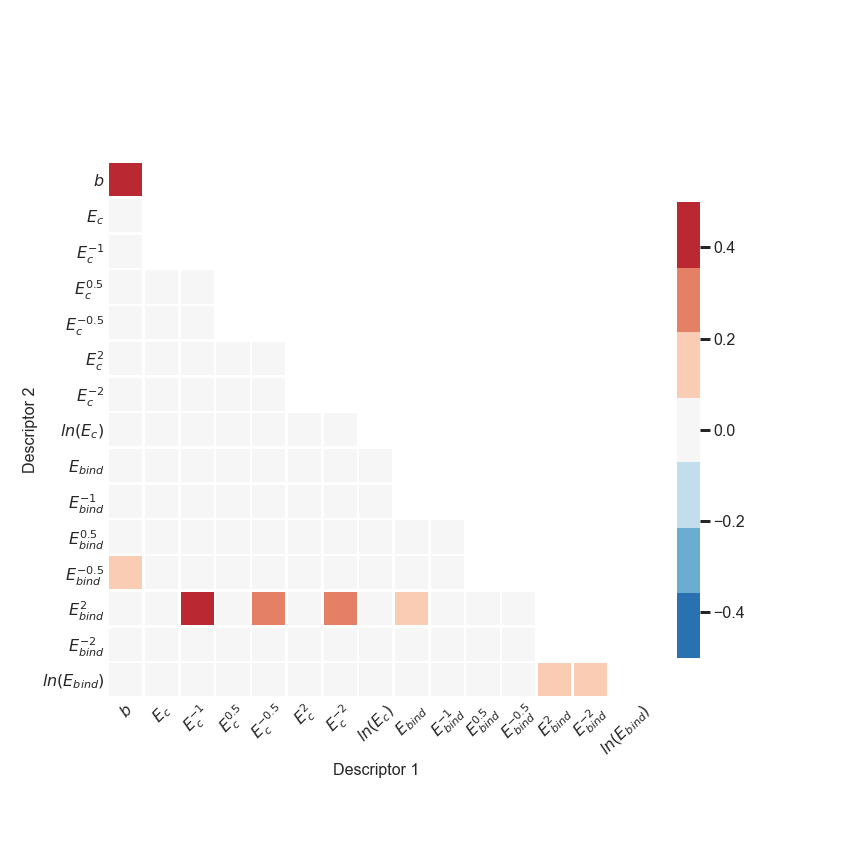
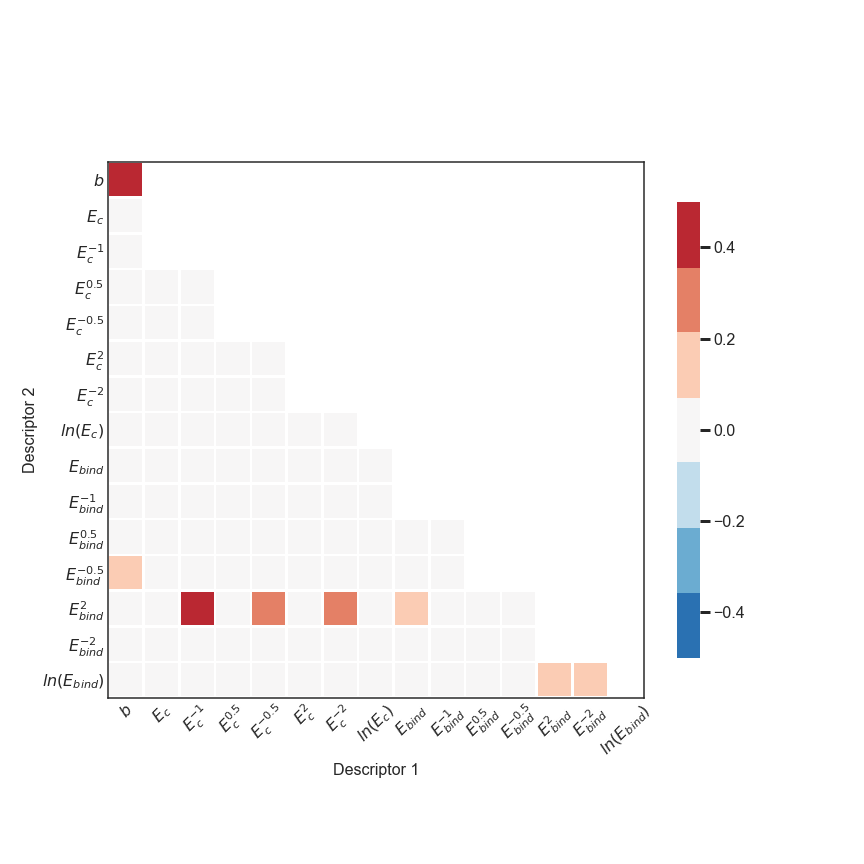
updated plots

Changed region(s): [[0.7188, 0.7812, 0.75, 0.8125], [0.7188, 0.1875, 0.75, 0.2188], [0.125, 0.7812, 0.1562, 0.8125]]

diff --git a/v2/Ea.py b/v2/Ea.py
@@ -334,6 +334,8 @@ def plot_tri_correlation_matrix(coef_matrix, model_name, output_dir):
     sns.set_style("white")
     sns.heatmap(corr, mask = mask, cmap=cmap, vmin = -0.5, vmax=0.5, center=0,
                 square=True, linewidths=1.5, cbar_kws={"shrink": 0.7})
+    for _, spine in ax.spines.items():
+        spine.set_visible(True)
     ax.tick_params('both', length=0, width=0, which='major')
     ax.set_xticks(np.arange(0,len(x_plot_feature_names))+0.5)
     ax.set_xticklabels(x_plot_feature_names, rotation = 45)
@@ -459,6 +461,7 @@ fdata = pd.DataFrame(np.transpose([l1_ratio_v, enet_n_v, enet_RMSE_test_v]), col
 fdata.to_csv(os.path.join(output_dir, 'enet_data.csv'), index=False, index_label=False)
 
 #%% Plot elastic net results
+sns.set_style("ticks")
 plt.figure(figsize=(8,6))
 fig, ax1 = plt.subplots()
 ax1.plot(l1_ratio_v, enet_RMSE_test_v, 'bo-')
